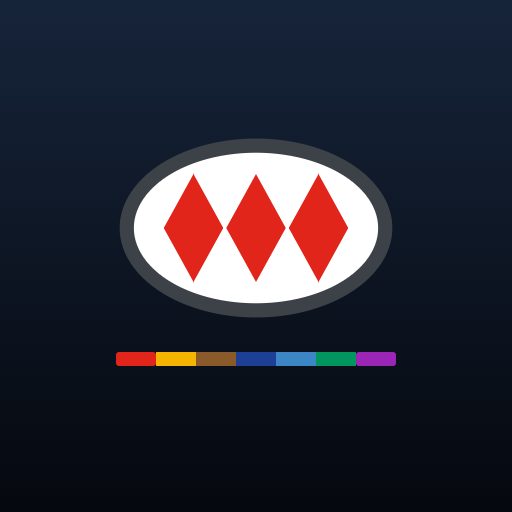
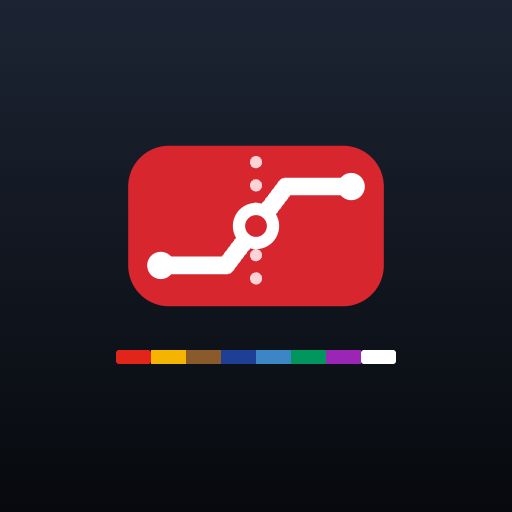
1.14 · RedMoviSim: simulador del transporte público de Santiago
MetroSim pasa a llamarse RedMoviSim. Logo propio (no usa el de Red ni el
de Metro), dominio redmovisim.benedettowebs.cl, portada agrupada en Metro
y Buses, intro, PWA, textos para buscadores, og.jpg e íconos nuevos, y
una nota de proyecto independiente. Se conservan las claves guardadas,
el paquete del APK y la versión de red del multijugador.

Claude-Session: https://claude.ai/code/session_01XEKfggUSrLj55UrfKCV2KA

Changed region(s): [[0.2188, 0.25, 0.7812, 0.625], [0.2188, 0.6562, 0.7812, 0.7188]]

diff --git a/index.html b/index.html
@@ -3,27 +3,27 @@
 <head>
   <meta charset="utf-8">
   <meta name="viewport" content="width=device-width,initial-scale=1,viewport-fit=cover">
-  <title>MetroSim · Simulador del Metro de Santiago en 3D (gratis, en el navegador)</title>
+  <title>RedMoviSim · Simulador del transporte público de Santiago en 3D (gratis, en el navegador)</title>
   <!-- Difusión: descripción para buscadores y vista previa al compartir el enlace (WhatsApp, X, Discord...) -->
-  <meta name="description" content="Simulador 3D gratuito del Metro de Santiago de Chile en el navegador y el celular: conduce trenes, viaja como pasajero o dirige el Centro de Control en las 7 líneas reales (1, 2, 3, 4, 4A, 5 y 6). Sin descargas.">
+  <meta name="description" content="Simulador 3D gratuito del transporte público de Santiago de Chile en el navegador y el celular: conduce trenes del Metro en sus 7 líneas reales, maneja buses por la Alameda, viaja como pasajero o dirige el Centro de Control. Proyecto independiente, no oficial. Sin descargas.">
   <meta name="robots" content="index, follow, max-image-preview:large">
-  <link rel="canonical" href="https://metrosim.app/">
-  <meta name="author" content="MetroSim">
-  <meta name="application-name" content="MetroSim">
+  <link rel="canonical" href="https://redmovisim.benedettowebs.cl/">
+  <meta name="author" content="RedMoviSim">
+  <meta name="application-name" content="RedMoviSim">
   <meta property="og:type" content="website">
-  <meta property="og:site_name" content="MetroSim">
-  <meta property="og:title" content="MetroSim · Simulador del Metro de Santiago">
-  <meta property="og:description" content="Conduce, viaja o dirige el Metro de Santiago en 3D. Gratis, en el navegador y en el celular.">
-  <meta property="og:url" content="https://metrosim.app/">
-  <meta property="og:image" content="https://metrosim.app/icons/og.jpg">
+  <meta property="og:site_name" content="RedMoviSim">
+  <meta property="og:title" content="RedMoviSim · Simulador del transporte público de Santiago">
+  <meta property="og:description" content="Conduce el Metro, maneja buses, viaja o dirige el transporte público de Santiago en 3D. Gratis, en el navegador y en el celular.">
+  <meta property="og:url" content="https://redmovisim.benedettowebs.cl/">
+  <meta property="og:image" content="https://redmovisim.benedettowebs.cl/icons/og.jpg">
   <meta property="og:image:width" content="1200">
   <meta property="og:image:height" content="630">
-  <meta property="og:image:alt" content="Portada de MetroSim con el mapa de las 7 líneas del Metro de Santiago">
+  <meta property="og:image:alt" content="RedMoviSim: un bus por la Alameda y el logo del juego">
   <meta property="og:locale" content="es_CL">
   <meta name="twitter:card" content="summary_large_image">
-  <meta name="twitter:title" content="MetroSim · Simulador del Metro de Santiago">
-  <meta name="twitter:description" content="Conduce, viaja o dirige el Metro de Santiago en 3D. Gratis, en el navegador y en el celular.">
-  <meta name="twitter:image" content="https://metrosim.app/icons/og.jpg">
+  <meta name="twitter:title" content="RedMoviSim · Simulador del transporte público de Santiago">
+  <meta name="twitter:description" content="Conduce el Metro, maneja buses, viaja o dirige el transporte público de Santiago en 3D. Gratis, en el navegador y en el celular.">
+  <meta name="twitter:image" content="https://redmovisim.benedettowebs.cl/icons/og.jpg">
   <!-- Datos estructurados (schema.org) para que Google entienda que es un juego web gratuito -->
   <script type="application/ld+json">
   {
@@ -31,28 +31,28 @@
     "@graph": [
       {
         "@type": "WebSite",
-        "@id": "https://metrosim.app/#website",
-        "url": "https://metrosim.app/",
-        "name": "MetroSim",
-        "alternateName": ["MetroSim Santiago", "Simulador del Metro de Santiago"],
+        "@id": "https://redmovisim.benedettowebs.cl/#website",
+        "url": "https://redmovisim.benedettowebs.cl/",
+        "name": "RedMoviSim",
+        "alternateName": ["RedMoviSim Santiago", "Simulador del transporte público de Santiago", "MetroSim"],
         "inLanguage": "es-CL"
       },
       {
         "@type": ["VideoGame", "WebApplication"],
-        "@id": "https://metrosim.app/#game",
-        "name": "MetroSim · Simulador del Metro de Santiago",
-        "url": "https://metrosim.app/",
-        "image": "https://metrosim.app/icons/og.jpg",
-        "description": "Simulador 3D gratuito del Metro de Santiago de Chile: conduce trenes, viaja como pasajero o dirige el Centro de Control en las líneas 1, 2, 3, 4, 4A, 5 y 6. Funciona en el navegador, en el celular y como app instalable, con multijugador.",
+        "@id": "https://redmovisim.benedettowebs.cl/#game",
+        "name": "RedMoviSim · Simulador del transporte público de Santiago",
+        "url": "https://redmovisim.benedettowebs.cl/",
+        "image": "https://redmovisim.benedettowebs.cl/icons/og.jpg",
+        "description": "Simulador 3D gratuito y no oficial del transporte público de Santiago de Chile: conduce trenes del Metro en las líneas 1, 2, 3, 4, 4A, 5 y 6, maneja buses, viaja como pasajero o dirige el Centro de Control. Funciona en el navegador, en el celular y como app instalable, con multijugador.",
         "inLanguage": "es-CL",
-        "genre": ["Simulación", "Simulador de trenes"],
+        "genre": ["Simulación", "Simulador de trenes", "Simulador de buses"],
         "gamePlatform": ["Navegador web", "Android", "iOS", "PC"],
         "applicationCategory": "GameApplication",
         "operatingSystem": "Cualquiera con navegador moderno (Windows, macOS, Linux, Android, iOS)",
         "playMode": ["SinglePlayer", "MultiPlayer"],
         "isAccessibleForFree": true,
         "offers": { "@type": "Offer", "price": "0", "priceCurrency": "CLP" },
-        "isPartOf": { "@id": "https://metrosim.app/#website" }
+        "isPartOf": { "@id": "https://redmovisim.benedettowebs.cl/#website" }
       }
     ]
   }
@@ -64,7 +64,7 @@
   <meta name="mobile-web-app-capable" content="yes">
   <meta name="apple-mobile-web-app-capable" content="yes">
   <meta name="apple-mobile-web-app-status-bar-style" content="black-translucent">
-  <meta name="apple-mobile-web-app-title" content="MetroSim">
+  <meta name="apple-mobile-web-app-title" content="RedMoviSim">
   <link rel="apple-touch-icon" href="icons/icon-180.png">
   <link rel="stylesheet" href="styles.css">
   <!-- Three.js mediante importmap (CDN). es-module-shims da compatibilidad a navegadores antiguos. -->
@@ -97,12 +97,12 @@
       <aside class="start-side">
         <header class="start-brand">
           <img class="metro-mark" src="logo.svg" alt="">
-          <h1>MetroSim</h1>
-          <span class="start-ver">v1.13</span>
+          <h1>Red<span>Movi</span>Sim</h1>
+          <span class="start-ver">v1.14</span>
         </header>
         <div class="start-hero">
-          <p class="eyebrow">Simulador del Metro de Santiago</p>
-          <h2>Conduce, viaja o dirige el Metro en 3D</h2>
+          <p class="eyebrow">Simulador del transporte público de Santiago</p>
+          <h2>Conduce el Metro, maneja buses y viaja por Santiago en 3D</h2>
           <p class="tagline" id="startTagline">Siete líneas reales, con sus estaciones, horarios y combinaciones.</p>
         </div>
 
@@ -150,6 +150,7 @@
       <div class="start-main">
         <span class="small-label">Modo de juego</span>
         <div class="mode-selection">
+          <span class="mode-group"><i class="mode-group-dot metro"></i>Metro</span>
           <article class="mode-card" data-card="driver">
             <div class="mode-head">
               <span class="mode-icon"><svg class="ico" viewBox="0 0 24 24" aria-hidden="true"><rect x="5" y="3" width="14" height="14" rx="3"/><path d="M5 11h14M9 17l-2 4M15 17l2 4"/><path d="M9 14h.01M15 14h.01"/></svg></span>
@@ -212,11 +213,12 @@
               <button class="tutorial-launch" data-tutorial="control"><svg class="ico" viewBox="0 0 24 24" aria-hidden="true"><path d="m2 9 10-5 10 5-10 5zM6 11v5c0 1.5 3 3 6 3s6-1.5 6-3v-5M22 9v6"/></svg> ¿Primera vez? Con tutorial</button>
             </div>
           </article>
+          <span class="mode-group"><i class="mode-group-dot bus"></i>Buses</span>
           <article class="mode-card" data-card="bus">
             <div class="mode-head">
               <span class="mode-icon"><svg class="ico" viewBox="0 0 24 24" aria-hidden="true"><rect x="4" y="3" width="16" height="15" rx="2"/><path d="M4 10h16M8 18v3M16 18v3M8 14h.01M16 14h.01"/></svg></span>
               <div class="mode-text">
-                <strong>MicroSim · Bus <span class="beta-tag">beta</span></strong>
+                <strong>Conductor de bus <span class="beta-tag">beta</span></strong>
                 <small>Maneja un bus por la Alameda, de Estación Central a Plaza Baquedano: pista Solo Bus, semáforos, autos y paraderos con gente esperando. El sueldo va a la misma cuenta.</small>
               </div>
               <button class="go-button" data-mode="bus">Manejar <svg class="ico" viewBox="0 0 24 24" aria-hidden="true"><path d="M5 12h14M13 6l6 6-6 6"/></svg></button>
@@ -251,9 +253,10 @@
           <span><kbd>M</kbd> sonido</span>
         </div>
         <p class="start-note">Con sonido y anuncios. La carga de la línea completa puede tardar unos segundos.</p>
+        <p class="start-note disclaimer">RedMoviSim es un proyecto independiente y gratuito, sin relación con Red Metropolitana de Movilidad, Metro de Santiago ni el Ministerio de Transportes. Los nombres de líneas, estaciones y lugares se usan solo como referencia.</p>
       </div>
     </main>
-    <p class="version">MetroSim 1.5 · realismo de la red: flota real, viaductos, clima y Ruta Expresa · conductor más realista · pasajero aún más realista · vía con pendientes en 3D · física real, demanda y horarios de Santiago · 7 líneas · Centro de Control</p>
+    <p class="version">RedMoviSim 1.14 · simulador no oficial del transporte público de Santiago · Metro: 7 líneas, conductor, pasajero y Centro de Control · Buses: conductor de bus por la Alameda (beta) · multijugador · app instalable</p>
   </section>
 
   <!-- =============================== PANTALLA DE CARGA =============================== -->
@@ -542,13 +545,14 @@
   </section>
 
   <script type="module" src="js/boot.js"></script>
-  <!-- Sin JavaScript (o para buscadores que no lo ejecutan): explica qué es MetroSim -->
+  <!-- Sin JavaScript (o para buscadores que no lo ejecutan): explica qué es RedMoviSim -->
   <noscript>
     <div style="max-width:720px;margin:2rem auto;padding:0 16px;color:#e8eef7;font-family:system-ui,sans-serif;line-height:1.5">
-      <h1>MetroSim · Simulador del Metro de Santiago</h1>
-      <p>MetroSim es un simulador 3D gratuito del Metro de Santiago de Chile que funciona en el navegador y en el celular.
-      Conduce trenes por las siete líneas reales (1, 2, 3, 4, 4A, 5 y 6) con sus estaciones, horarios y combinaciones,
-      viaja como pasajero o dirige el Centro de Control, solo o en multijugador.</p>
+      <h1>RedMoviSim · Simulador del transporte público de Santiago</h1>
+      <p>RedMoviSim es un simulador 3D gratuito del transporte público de Santiago de Chile que funciona en el navegador y en el celular.
+      Conduce trenes del Metro por las siete líneas reales (1, 2, 3, 4, 4A, 5 y 6) con sus estaciones, horarios y combinaciones,
+      maneja buses por la Alameda, viaja como pasajero o dirige el Centro de Control, solo o en multijugador.</p>
+      <p>Proyecto independiente, sin relación con Red Metropolitana de Movilidad, Metro de Santiago ni el Ministerio de Transportes.</p>
       <p>Para jugar necesitas activar JavaScript en tu navegador.</p>
     </div>
   </noscript>

diff --git a/js/intro.js b/js/intro.js
@@ -37,11 +37,12 @@ const CSS = `
 .intro.city .intro-ui{opacity:1}
 .intro-left{display:grid;gap:14px;justify-items:start}
 .intro-brand{display:flex;align-items:center;gap:16px}
-.intro-logo{width:clamp(84px,10vw,120px);height:auto;filter:drop-shadow(0 0 30px #e1251b88);transform:scale(.4) rotate(-12deg);opacity:0;transition:transform 1s cubic-bezier(.2,1.6,.4,1),opacity .6s}
+.intro-logo{width:clamp(84px,10vw,120px);height:auto;filter:drop-shadow(0 0 30px #d7262e88);transform:scale(.4) rotate(-12deg);opacity:0;transition:transform 1s cubic-bezier(.2,1.6,.4,1),opacity .6s}
 .intro.city .intro-logo{transform:none;opacity:1}
 .intro-title{font-family:var(--f-display);font-weight:700;font-size:clamp(52px,8.5vw,112px);line-height:.9;letter-spacing:-1px;text-shadow:0 10px 50px #000c}
 .intro-title span{display:inline-block;opacity:0;transform:translateY(-60px) rotate(-8deg)}
 .intro.city .intro-title span{animation:introDrop .7s cubic-bezier(.2,1.4,.4,1) forwards}
+.intro-title span.mv{color:#ff5a61}
 .intro-brand>div{display:grid;gap:8px;justify-items:start}
 .intro-eyebrow{font-family:var(--f-data);font-size:12px;letter-spacing:3px;color:#ffd166;font-weight:700}
 .intro-version{display:inline-flex;align-items:center;gap:7px;padding:4px 10px 4px 8px;border:1px solid #ffd16655;border-radius:999px;background:#ffd16614;color:#ffe3a3;font-size:11px;font-weight:800;letter-spacing:2px;opacity:0;transform:translateY(8px);transition:opacity .6s 1.1s,transform .6s 1.1s}
@@ -506,7 +507,7 @@ function welcomeSound(muted) {
       speechSynthesis.cancel();
       speechSynthesis.resume();   // Chrome a veces deja la cola en pausa
       const natural = v && /natural|online|neural|premium|enhanced|google/i.test(v.name);
-      const phrases = [greeting(), "Te damos la bienvenida a MetroSim,", "el simulador del Metro de Santiago."];
+      const phrases = [greeting(), "Te damos la bienvenida a RedMoviSim,", "el simulador del transporte público de Santiago."];
       phrases.forEach((text, i) => {
         const u = new SpeechSynthesisUtterance(text);
         if (v) { u.voice = v; u.lang = v.lang; } else u.lang = "es-CL";
@@ -540,14 +541,14 @@ export function playIntro({ isMuted = () => false, menuReady = null } = {}) {
   // Artículos de la Tienda Metro: licencias, libreas de pago, contratos, el depto, sus muebles y un recuerdo por estación de cada línea
   const shopItems = LICENSES.length + LIVERIES.filter(l => l.price > 0).length + CONTRACTS.length + 1 + FURNITURE.length
     + LINES.reduce((n, l) => n + l.stations.length, 0);
-  const title = "MetroSim".split("").map((ch, i) => `<span style="animation-delay:${0.25 + i * 0.07}s">${ch}</span>`).join("");
+  const title = "RedMoviSim".split("").map((ch, i) => `<span${ch === "M" || ch === "o" || ch === "v" || (ch === "i" && i === 6) ? ' class="mv"' : ""} style="animation-delay:${0.25 + i * 0.06}s">${ch}</span>`).join("");
   const C = LINE_COLORS;
   const cards = [
     [C["1"], "🚇 Conduce desde la cabina", "DMI, mandos y señales reales. Cada estación bien servida te paga al instante."],
     [C["2"], "🚶 Viaja a pie", "Combina entre líneas por los pasillos, usa los ascensores y sal caminando a la calle."],
     [C["4A"], "🏙 Sal a la ciudad", `${landmarks} hitos: La Moneda, Costanera Center, la Catedral, el Estadio Nacional…`],
     [C["5"], "🎯 Libreta de misiones", "Compras, fotos, encargos y contrarreloj. Completar una línea se celebra."],
-    [C["3"], "🛍 Tienda Metro", "Licencias, libreas para tu tren, contratos con más sueldo, tu depto y recuerdos."],
+    ["#d7262e", "🚌 Maneja un bus", "Por la Alameda: pista Solo Bus, semáforos, autos y paraderos con gente esperando."],
     [C["6"], "🖥 Centro de Control", `Supervisa las ${LINES.length} líneas en tiempo real: retén trenes y regula intervalos.`],
   ];
 
@@ -558,7 +559,7 @@ export function playIntro({ isMuted = () => false, menuReady = null } = {}) {
     <button class="intro-skip">Saltar ›</button>
     <div class="intro-ui">
       <div class="intro-left">
-        <div class="intro-brand"><img class="intro-logo" src="logo.svg" alt="MetroSim"><div><span class="intro-eyebrow">SIMULADOR · METRO DE SANTIAGO</span><span class="intro-version">VERSIÓN ${VERSION} · ESTABLE</span></div></div>
+        <div class="intro-brand"><img class="intro-logo" src="logo.svg" alt="RedMoviSim"><div><span class="intro-eyebrow">SIMULADOR · TRANSPORTE PÚBLICO DE SANTIAGO</span><span class="intro-version">VERSIÓN ${VERSION} · ESTABLE</span></div></div>
         <h1 class="intro-title">${title}</h1>
         <p class="intro-sub"><span class="typed"></span><span class="caret"></span></p>
         <div class="intro-stats">

diff --git a/js/bus/busGame.js b/js/bus/busGame.js
@@ -119,7 +119,7 @@ class BusGame {
       <header class="bus-top">
         <div class="bus-brand">
           <span class="bus-badge">${R.id}</span>
-          <div class="bus-route"><span class="bus-label">MICROSIM · BETA · CONDUCTOR DE BUS</span><strong>${esc(R.name.toUpperCase())} · ${esc(R.from.toUpperCase())} → ${esc(R.to.toUpperCase())}</strong></div>
+          <div class="bus-route"><span class="bus-label">BUSES · CONDUCTOR DE BUS · BETA</span><strong>${esc(R.name.toUpperCase())} · ${esc(R.from.toUpperCase())} → ${esc(R.to.toUpperCase())}</strong></div>
         </div>
         <div class="bus-right">
           <div class="bus-pill"><span class="bus-label">CUENTA</span><strong data-k="bank">$0</strong><span class="bus-float" data-k="float"></span></div>
@@ -179,7 +179,7 @@ class BusGame {
       </div>
       <div class="bus-overlay bus-pause hidden" data-k="pause">
         <div class="bus-card">
-          <span class="bus-label">MICROSIM · PAUSA</span>
+          <span class="bus-label">CONDUCTOR DE BUS · PAUSA</span>
           <h2>Recorrido ${R.id} · ${esc(R.name)}</h2>
           <p>El sueldo de cada paradero ya está en tu cuenta. Si terminas ahora no recibes el bono del servicio.</p>
           <div class="bus-card-actions">
@@ -362,7 +362,7 @@ class BusGame {
 
   onStopDone(r) {
     if (r.pay > 0) {
-      this.bank.deposit(r.pay, `MicroSim · paradero ${r.name}`, { wage: true });
+      this.bank.deposit(r.pay, `Bus ${BUS_ROUTE.id} · paradero ${r.name}`, { wage: true });
       this.earned += r.pay;
       this.updateBank();
       this.moneyFloat(r.pay);
@@ -380,7 +380,7 @@ class BusGame {
 
   onFinished(e) {
     if (e.bonus) {
-      this.bank.deposit(e.bonus, `MicroSim · bono del recorrido ${BUS_ROUTE.id} (nota ${e.grade})`, { wage: true });
+      this.bank.deposit(e.bonus, `Bus · bono del recorrido ${BUS_ROUTE.id} (nota ${e.grade})`, { wage: true });
       this.earned += e.bonus;
       this.updateBank();
       this.moneyFloat(e.bonus);
@@ -398,11 +398,11 @@ class BusGame {
       ["Ganado en este recorrido", formatCLP(this.earned)],
     ];
     this.el.summaryCard.innerHTML = `
-      <span class="bus-label">MICROSIM · FIN DEL RECORRIDO ${BUS_ROUTE.id}</span>
+      <span class="bus-label">BUSES · FIN DEL RECORRIDO ${BUS_ROUTE.id}</span>
       <div class="bus-grade grade-${e.grade}">${e.grade}</div>
       <h2>${esc(BUS_ROUTE.from)} → ${esc(BUS_ROUTE.to)}</h2>
       <dl class="bus-stats">${rows.map(([k, v]) => `<div><dt>${k}</dt><dd>${v}</dd></div>`).join("")}</dl>
-      <p>Lo ganado ya está en tu cuenta del ${esc(BANK_NAME)}: úsalo como pasajero en el metro.</p>
+      <p>Lo ganado ya está en tu cuenta del ${esc(BANK_NAME)}: úsalo como pasajero en el Metro o en la Tienda.</p>
       <div class="bus-card-actions">
         <button class="bus-btn primary" data-a="again">Otra vuelta</button>
         <button class="bus-btn" data-a="quit">Volver a la portada</button>

diff --git a/styles.css b/styles.css
@@ -104,8 +104,9 @@ kbd {
 .start-side, .start-main { display: flex; flex-direction: column; gap: 18px; min-width: 0; }
 .start-main { gap: 12px; }
 .start-brand { display: flex; align-items: center; gap: 12px; }
-.metro-mark { width: 54px; height: auto; filter: drop-shadow(0 6px 18px #e1251b44); }
+.metro-mark { width: 58px; height: auto; filter: drop-shadow(0 6px 18px #d7262e55); }
 .start-brand h1 { font: 700 34px/1 var(--f-display); letter-spacing: .3px; }
+.start-brand h1 span { color: #ff5a61; }
 .start-ver { font: 500 11px/1 var(--f-data); color: var(--muted); border: 1px solid var(--panel-border); border-radius: 5px; padding: 4px 6px; }
 .start-hero { display: grid; gap: 8px; }
 .start-hero h2 { font: 700 clamp(30px, 3.6vw, 42px)/1.02 var(--f-display); letter-spacing: -.2px; text-wrap: balance; }
@@ -172,6 +173,11 @@ kbd {
 .creator-launch { border-color: #34d17c66; color: #bff0d3; }
 
 .mode-selection { display: grid; gap: 10px; }
+.mode-group { display: flex; align-items: center; gap: 8px; margin-top: 4px; font: 700 13px/1 var(--f-display); letter-spacing: 1.6px; text-transform: uppercase; color: #c3ccd6; }
+.mode-group:first-child { margin-top: 0; }
+.mode-group-dot { width: 10px; height: 10px; border-radius: 3px; background: linear-gradient(90deg, #e1251b 0 25%, #f4b400 0 50%, #1d3f95 0 75%, #00965e 0); }
+.mode-group-dot.bus { background: #d7262e; border-radius: 50%; }
+.start-note.disclaimer { margin-top: 6px; font-size: 11.5px; line-height: 1.5; color: var(--dim); }
 .mode-card {
   display: grid;
   gap: 14px;

diff --git a/js/control/controlCenter.js b/js/control/controlCenter.js
@@ -704,7 +704,7 @@ export class ControlCenter {
       : `<p>Aún no entra nadie. Cuando un conductor se una, su tren aparece en el esquema con su nombre.</p>`;
     this.openModal("room", true, net ? `
       <h2>Sala abierta</h2>
-      <p>Comparte este código. Cada conductor abre MetroSim, elige una de tus líneas (${[...this.lines].map(id => `L${id}`).join(", ")}) y su servicio, y pulsa <b>«Unirse a una sala»</b> en la tarjeta Conductor.</p>
+      <p>Comparte este código. Cada conductor abre RedMoviSim, elige una de tus líneas (${[...this.lines].map(id => `L${id}`).join(", ")}) y su servicio, y pulsa <b>«Unirse a una sala»</b> en la tarjeta Conductor.</p>
       <div class="pcc-code" aria-label="Código de la sala">${net.code}</div>
       ${localNetwork() ? `<p class="pcc-error">Modo local (?red=local en la dirección): solo se pueden unir pestañas de este mismo navegador. Para jugar con otro computador o celular, abre MetroSim sin ?red=local.</p>` : ""}
       <p class="${net.online ? "pcc-ok" : "pcc-error"}">${net.online ? "✓ Sala visible: ya pueden unirse." : "⚠ Sin conexión con los servidores para encontrarse, reconectando… Nadie nuevo puede unirse hasta que vuelva."}</p>

diff --git a/js/main.js b/js/main.js
@@ -486,7 +486,7 @@ window.addEventListener("resize", onResize);
 if (wantsTouch()) document.body.classList.add("touch-mode");
 
 // Acceso de depuración desde la consola: MetroSim.game.traffic, etc.
-window.MetroSim = { get game() { return game; }, get bus() { return bus; }, hud, bank, card, CONFIG, get STATIONS() { return STATIONS; }, get ROUTES() { return ROUTES; }, LINES };
+window.MetroSim = window.RedMoviSim = { get game() { return game; }, get bus() { return bus; }, hud, bank, card, CONFIG, get STATIONS() { return STATIONS; }, get ROUTES() { return ROUTES; }, LINES };
 
 
 /* ==========================================================================
@@ -846,7 +846,7 @@ function stopGame({ keepFullscreen = false } = {}) {
   }
 }
 
-/* 1.13 · MicroSim (beta): el modo bus tiene su propia pantalla y su propio ciclo (js/bus/) */
+/* 1.13 · Conductor de bus (beta, antes «MicroSim»): el modo bus tiene su propia pantalla y su propio ciclo (js/bus/) */
 let bus = null;
 function startBus() {
   if (bus) return;

diff --git a/js/pwa.js b/js/pwa.js
@@ -1,7 +1,7 @@
 /* ==========================================================================
    MetroSim — 1.0 · pwa.js
    App instalable (PWA): registra el service worker (sw.js) y muestra el
-   botón "Instalar MetroSim" en la pantalla inicial.
+   botón "Instalar RedMoviSim" en la pantalla inicial.
 
      · Chrome / Edge / Android: el navegador avisa que se puede instalar
        (beforeinstallprompt); el botón abre su diálogo de instalación.
@@ -42,7 +42,7 @@ export function setupPWA(button) {
       deferred = null;
       if (outcome === "accepted") show(false);
     } else if (isIOS()) {
-      alert("Para instalar MetroSim en tu iPhone o iPad:\n\n1. Toca Compartir (el cuadrado con la flecha).\n2. Elige «Agregar a inicio».\n\nSe abrirá a pantalla completa, como una app.");
+      alert("Para instalar RedMoviSim en tu iPhone o iPad:\n\n1. Toca Compartir (el cuadrado con la flecha).\n2. Elige «Agregar a inicio».\n\nSe abrirá a pantalla completa, como una app.");
     }
   });
 }

diff --git a/sw.js b/sw.js
@@ -1,6 +1,6 @@
 /* ==========================================================================
    MetroSim — 1.5 · sw.js
-   Service worker de la PWA: permite instalar MetroSim y jugar sin conexión.
+   Service worker de la PWA: permite instalar RedMoviSim y jugar sin conexión.
 
    Estrategia:
      · Archivos propios (HTML, CSS, js/, audio/, íconos): primero la RED y,
@@ -14,7 +14,7 @@
    sin conexión.
    ========================================================================== */
 
-const CACHE = "metrosim-v1.13";
+const CACHE = "metrosim-v1.14";
 const CDN = ["cdn.jsdelivr.net", "unpkg.com"];
 
 /** Lo mínimo para que la portada abra sin conexión aunque no se haya jugado. */

diff --git a/js/creator.js b/js/creator.js
@@ -63,7 +63,7 @@ export async function setupCreator(badge) {
       if (!CREATOR_HASH) alert("El Modo Creador aún no tiene clave.\nGenérala con:  node tools/clave-creador.mjs \"tu clave\"");
       else if (!crypto?.subtle) alert("El Modo Creador necesita https o localhost.");
       else {
-        const pass = prompt("Clave de creador de MetroSim:");
+        const pass = prompt("Clave de creador de RedMoviSim:");
         if (pass) {
           if (await sha256(SALT + pass) === CREATOR_HASH) {
             try { localStorage.setItem(KEY, CREATOR_HASH); } catch { /* sin almacenamiento */ }

diff --git a/js/boot.js b/js/boot.js
@@ -13,4 +13,4 @@ const isMuted = () => { try { return localStorage.getItem("metrosim.muted") === 
 
 const game = import("./main.js");
 playIntro({ isMuted, menuReady: game });
-game.catch(err => console.error("MetroSim no pudo cargar el juego:", err));
+game.catch(err => console.error("RedMoviSim no pudo cargar el juego:", err));

diff --git a/js/config.js b/js/config.js
@@ -26,7 +26,7 @@
    y curva de demanda horaria de un día real de Santiago.
    ========================================================================== */
 
-export const VERSION = "1.13";
+export const VERSION = "1.14";
 
 /* ---------- Colores oficiales de las líneas ---------- */
 export const LINE_COLORS = {

diff --git a/android/build/build.py b/android/build/build.py
@@ -102,13 +102,13 @@ def manifest_xml(version_name, version_code):
         # orientation|keyboardHidden|keyboard|screenSize|smallestScreenSize|screenLayout|uiMode|navigation: no se reinicia al girar
         a("configChanges", 0xFF0, H),
         a("screenOrientation", 6, I),             # sensorLandscape: horizontal, en cualquiera de los dos sentidos
-        a("label", "MetroSim", S),
+        a("label", "RedMoviSim", S),
     ], [("intent-filter", [], [
         ("action", [a("name", "android.intent.action.MAIN", S)], []),
         ("category", [a("name", "android.intent.category.LAUNCHER", S)], []),
     ])])
     app = ("application", [
-        a("label", "MetroSim", S),
+        a("label", "RedMoviSim", S),
         a("icon", 0x7F010000, R),
         a("theme", 0x01030007, R),                 # @android:style/Theme.NoTitleBar.Fullscreen
         a("hardwareAccelerated", True, B),
